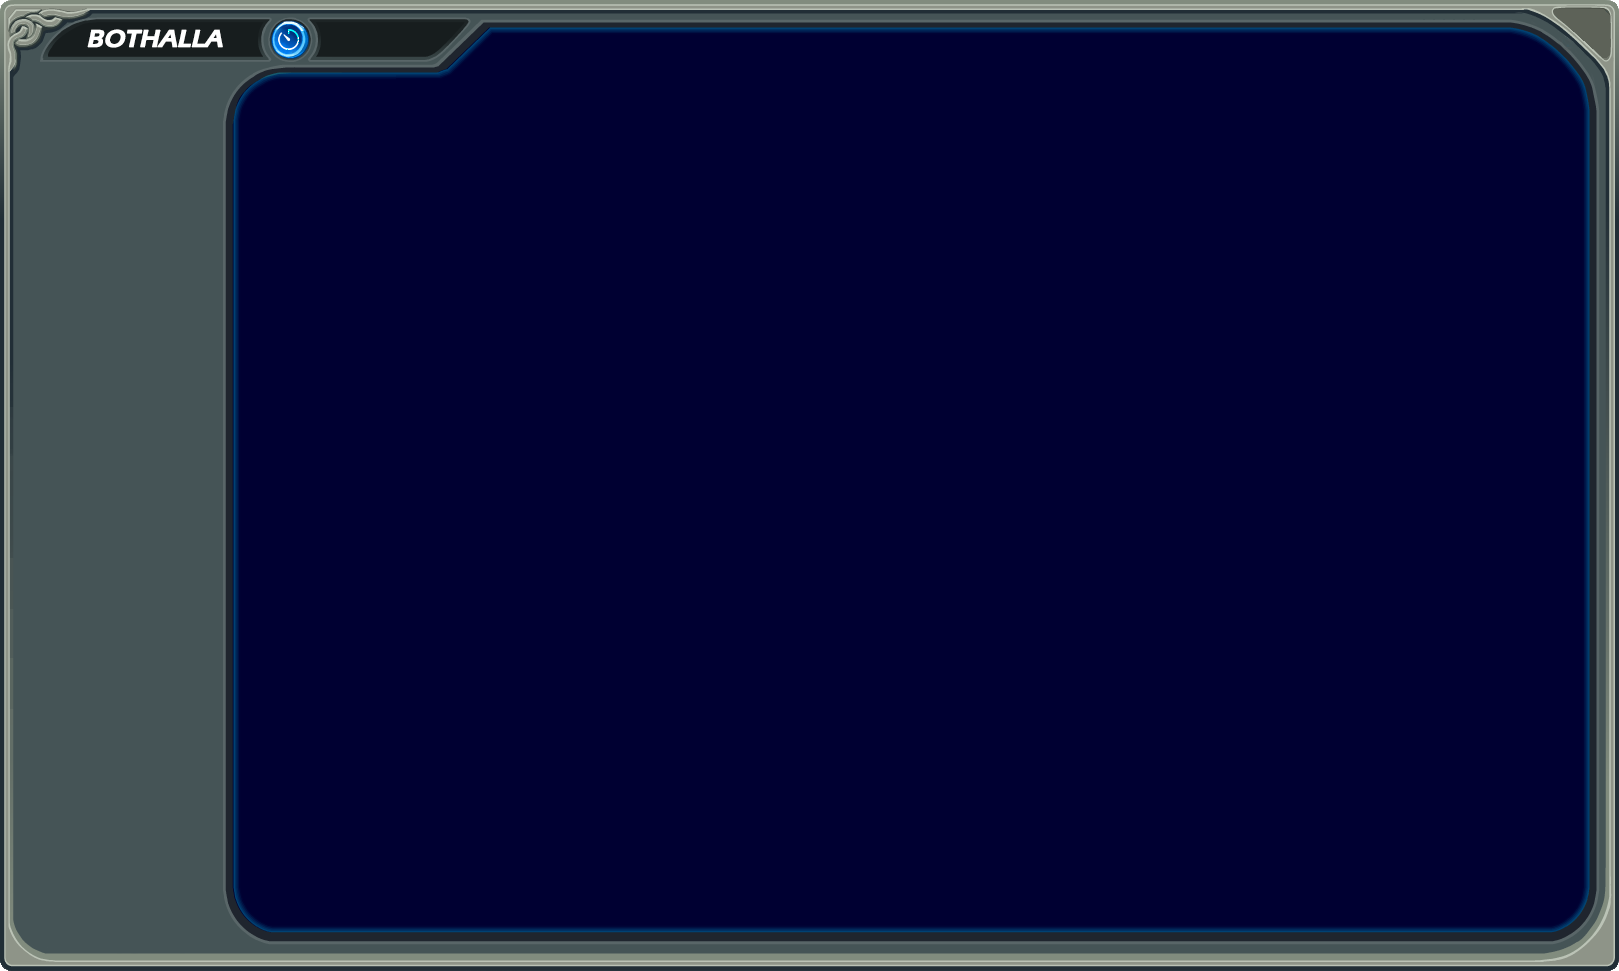
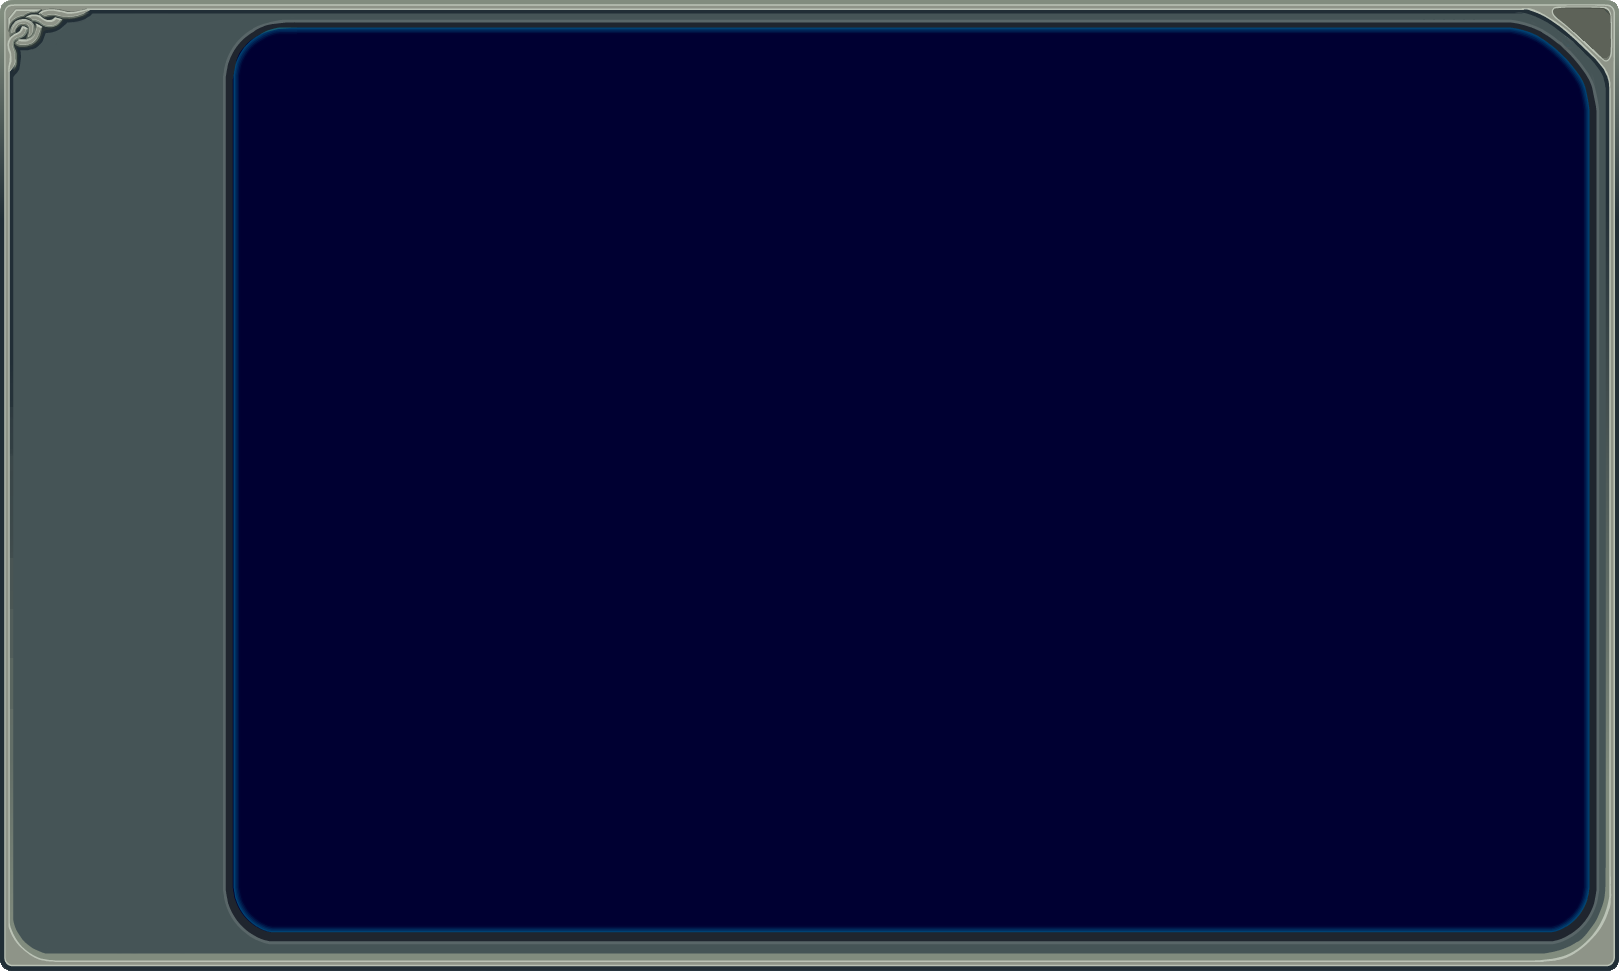
added name to ui with updating size to guarentee fit

Changed region(s): [[0.0309, 0.0, 0.3088, 0.1236]]

diff --git a/src/renderer/src/components/Background.tsx b/src/renderer/src/components/Background.tsx
@@ -1,0 +1,69 @@
+import { useEffect, useRef, useState } from 'react';
+import backgroundImage from '../../../../resources/Background.png';
+import backgroundOverlay from '../../../../resources/Background_Overlay.png';
+import nameBar from '../../../../resources/Namebar.png';
+
+function Background(): JSX.Element {
+    const [name, setName] = useState("");
+
+    const textRef = useRef<HTMLDivElement>(null);
+    const [nameWidth, setNameWidth] = useState(0);
+
+    useEffect(() => {
+        window.electron.ipcRenderer.send('request-name');
+        window.electron.ipcRenderer.on('response-request-name', (_event, name) => {setName(name)});
+
+        return () => {
+            window.electron.ipcRenderer.removeAllListeners('response-request-name');
+        };
+    }, []);
+
+    useEffect(() => {
+        if (textRef && textRef.current) {
+            setNameWidth(textRef.current.offsetWidth);
+        }
+    }, [name]);
+
+    return (
+        <>
+            <div style={{
+                position: 'absolute',
+                backgroundImage: `url(${backgroundImage})`,
+                backgroundSize: 'cover',
+                backgroundPosition: 'center',
+                width: '100vw',
+                height: '100vh'
+            }}
+            ></div>
+            <div style={{
+                position: 'absolute',
+                backgroundImage: `url(${nameBar})`,
+                backgroundSize: 'cover',
+                backgroundPosition: 'center',
+                right: `calc(50% - ${nameWidth - 330}px)`, // Centering the name bar
+                width: '100vw',
+                height: '100vh'
+            }}
+            ></div>
+            <div style={{
+                position: 'absolute',
+                backgroundImage: `url(${backgroundOverlay})`,
+                backgroundSize: 'cover',
+                backgroundPosition: 'center',
+                width: '100vw',
+                height: '100vh'
+            }}
+            ></div>
+            <div ref={textRef} style={{
+                fontFamily: "'Brawlhalla', sans-serif",
+                position: 'absolute',
+                left: '56px',
+                top: '17px',
+                fontSize: '20px',
+                color: 'white',
+            }}>{name}</div>
+        </>
+    );
+}
+
+export default Background;

diff --git a/src/renderer/src/App.tsx b/src/renderer/src/App.tsx
@@ -1,32 +1,19 @@
 import './App.css';
-import backgroundImage from '../../../resources/Background.png';
-import backgroundButtonImage from '../../../resources/Button_Background.png';
 import CloseButton from './components/CloseButton';
 import Legends from './components/Legends';
 import RunButton from './components/RunButton';
 import Debug from './components/Debug';
+import Background from './components/Background';
 
 function App(): JSX.Element {
   return (
     <div style={{
-      backgroundImage: `url(${backgroundImage})`,
-      backgroundSize: 'cover',
-      backgroundPosition: 'center',
       width: '100vw',
       height: '100vh'
     }}>
+      <Background></Background>
       <div id="titleBar" className="drag-region"></div>
       <CloseButton></CloseButton>
-      <div style={{
-        backgroundImage: `url(${backgroundButtonImage})`,
-        position: 'absolute',
-        top: '306px',
-        left: '140px',
-        width: '253px',
-        height: '52px',
-        transform: 'scale(0.71)'
-      }}>
-      </div>
       <Legends></Legends>
       <RunButton></RunButton>
       <Debug></Debug>

diff --git a/src/renderer/src/components/Legends.tsx b/src/renderer/src/components/Legends.tsx
@@ -3,6 +3,7 @@ import '../assets/legends.css';
 import RightButton from './RightButton';
 import LeftButton from './LeftButton';
 import LegendGallery from './LegendGallery';
+import backgroundButtonImage from '../../../../resources/Button_Background.png';
 
 function Legends(): JSX.Element {
     const [imageUrls, setImageUrls] = useState<string[]>([]);
@@ -58,6 +59,16 @@ function Legends(): JSX.Element {
 
     return (
         <>
+            <div style={{
+                backgroundImage: `url(${backgroundButtonImage})`,
+                position: 'absolute',
+                top: '306px',
+                left: '140px',
+                width: '253px',
+                height: '52px',
+                transform: 'scale(0.71)'
+            }}>
+            </div>
             <LegendGallery imageUrls={imageUrls} imageNames={imageNames} imageAlts={imageAlts} currentIndex={currentIndex}/>
             <RightButton moveRight={setMoveRight} currentIndex={currentIndex} totalGrids={totalGrids}/>
             <LeftButton moveLeft={setMoveLeft} currentIndex={currentIndex}/>

diff --git a/src/main/index.ts b/src/main/index.ts
@@ -89,12 +89,16 @@ app.whenReady().then(() => {
     console.log('Dependencies installed:', stdout);
     console.log('Installation errors (if any):', stderr);
 
-    console.log(getProfilePictureAndName())
+    createWindow()
 
     // Execute the command to run the Python script
     app.on('browser-window-created', (_, window) => {
       optimizer.watchWindowShortcuts(window)
     })
+
+    ipcMain.on('request-name', async (event) => {
+      event.reply('response-request-name', getProfilePictureAndName());
+    });
   
     ipcMain.on('request-urls', async (event) => {
       try {
